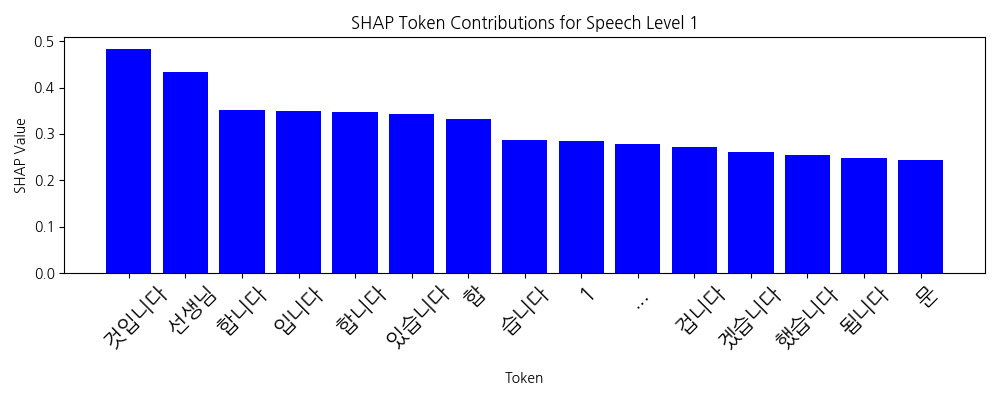
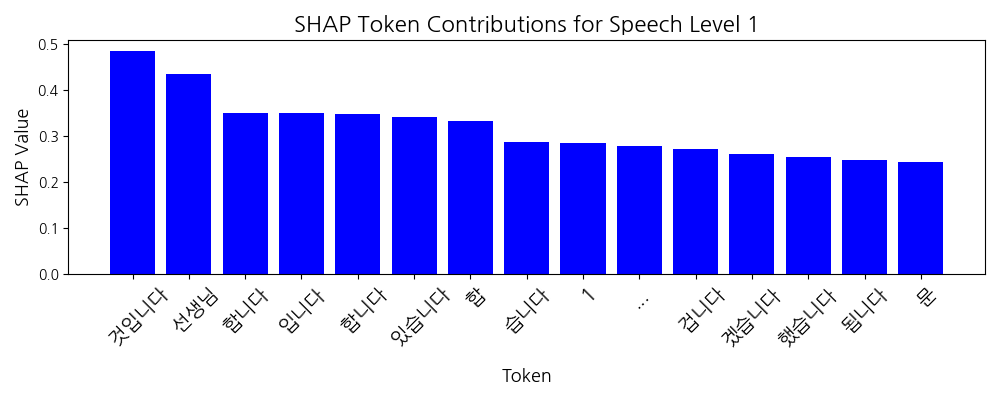
Update figures

diff --git a/shap/shap_load_and_vis.py b/shap/shap_load_and_vis.py
@@ -44,10 +44,10 @@ def shap_graph_manual(shap_values, model, level):
     matplotlib.rcParams['axes.unicode_minus'] = False
     plt.figure(figsize=(10, 4))
     plt.bar(tokens, values, color=colors)
-    plt.title(f"SHAP Token Contributions for Speech Level {level}")
-    plt.xticks(rotation=45, fontsize=15)
-    plt.xlabel("Token")
-    plt.ylabel("SHAP Value")
+    plt.title(f"SHAP Token Contributions for Speech Level {level}", fontsize=16)
+    plt.xticks(rotation=45, fontsize=14)
+    plt.xlabel("Token", fontsize=13)
+    plt.ylabel("SHAP Value", fontsize=13)
     plt.tight_layout()
     # plt.show()
     plt.savefig(f"figures/mean_{model}_sp_{level}_manual.png")
@@ -61,8 +61,8 @@ def load_shap(model, level):
 # Speech levels to analyze
 speech_levels = [1, 2, 4, 5, 6]
 # speech_levels = [5, 6]
-#models = ["multi", "kobert"]
-models = ["kobert"]
+models = ["multi", "kobert"]
+#models = ["kobert"]
 
 # SHAP plot for each speech level
 for level in speech_levels:

diff --git a/shap/hierarchy_vis.py b/shap/hierarchy_vis.py
@@ -18,12 +18,14 @@ for model in models:
     # Create custom x-axis labels with counts
     x_labels = [f"{cue}\n({cnt})" for cue, cnt in zip(model_data["Cue Type"], model_data["count"])]
 
+    model_name = "KoBERT" if model == "kobert" else "XLM-RoBERTa"
+
     plt.figure(figsize=(8, 5))
     plt.bar(x_labels, model_data["total_shap"], color="cornflowerblue", edgecolor="black")
-    plt.title(f"Cue Type Hierarchy by Total SHAP Value — {model}", fontsize=13)
-    plt.ylabel("Total SHAP Value")
+    plt.title(f"Cue Type Hierarchy by Mean SHAP Value — {model_name}", fontsize=13)
+    plt.ylabel("Mean SHAP Value")
     plt.xlabel("Cue Type (count)")
     plt.xticks(rotation=45, ha="right")
     plt.tight_layout()
-    plt.grid(axis="y", linestyle="--", alpha=0.6)
+    plt.grid(axis="y", linestyle="", alpha=0.6)
     plt.show()
